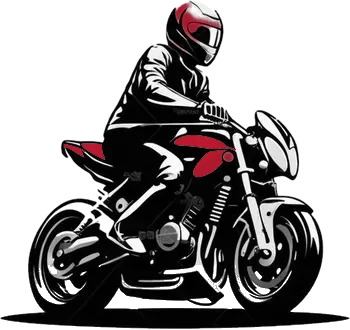
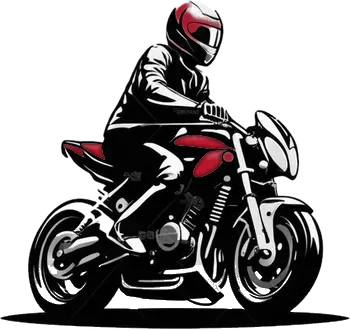
Bike panels shaded in wine like the helmet: deep edges, lighter centre, soft top sheen
Claude-Session: https://claude.ai/code/session_011svZSxEu7wpuhhs3qeC1tv

Changed region(s): [[0.4857, 0.3939, 0.6571, 0.5455], [0.1714, 0.4242, 0.3143, 0.4848]]

diff --git a/sw.js b/sw.js
@@ -1,5 +1,5 @@
 // Waylink — offline shell. Caches the app's own files; fonts are cached as they load.
-const CACHE = 'waylink-v143';
+const CACHE = 'waylink-v144';
 const SHELL = ['./', 'index.html', 'styles.css', 'js/app.js', 'js/views.js', 'js/store.js', 'js/link.js', 'js/protocol.js', 'js/sound.js', 'js/icons-huge.js', 'img/onb/scene-light.webp', 'img/onb/scene-dark.webp', 'img/onb/scene-night.webp', 'img/grain.png', 'img/onb/rider-mono.webp', 'img/onb/rider-street.webp', 'img/onb/bt-disc.webp', 'manifest.webmanifest', 'icon.svg', 'img/logos/wl-loop-rust.svg', 'img/logos/wl-turns-rust.svg', 'img/logos/png/wl-loop-rust-180.png'];
 // Cache each file on its own, so one missing file can't block an update.
 self.addEventListener('install', (e) => { e.waitUntil(caches.open(CACHE).then((c) => Promise.all(SHELL.map((u) => c.add(new Request(u, { cache: 'reload' })).catch(() => {})))).then(() => self.skipWaiting())); });

diff --git a/tools/bike_wine.py b/tools/bike_wine.py
@@ -19,9 +19,23 @@ white = (v > .62) & (s < .25) & (al[..., 0] > .5)
 lab, _ = ndimage.label(white)
 PANELS = [(200, 141), (208, 163), (74, 148), (94, 149)]  # a point inside each panel, image pixels
 pick = np.isin(lab, [lab[y, x] for x, y in PANELS if lab[y, x]])
-pick = ndimage.binary_dilation(pick, iterations=2)  # take in the soft anti-aliased rim
-w = (pick * np.clip((v - .28) / .34, 0, 1))[..., None]
-panel = np.clip(WINE * (.62 + .5 * v[..., None]), 0, 1)
+# soft mask: grow a touch, then feather, so the wine melts into the black outlines like the helmet
+pick = ndimage.gaussian_filter(ndimage.binary_dilation(pick, iterations=1).astype(np.float32), 1.1)
+w = (np.clip(pick * 1.4, 0, 1) * np.clip((v - .22) / .4, 0, 1))[..., None]
+# shade each panel like the helmet: deep wine at its edges, lighter inside, a pale sheen along its top
+core = np.isin(lab, [lab[y, x] for x, y in PANELS if lab[y, x]])
+depth = np.clip(ndimage.distance_transform_edt(core) / 4.5, 0, 1)
+rel = np.zeros_like(v)
+for x, y in PANELS:
+    k = lab[y, x]
+    if not k: continue
+    ys = np.where(lab == k)[0]; m = lab == k
+    rel[m] = (np.where(m)[0] - ys.min()) / max(1, ys.max() - ys.min())
+rel = ndimage.gaussian_filter(rel, 1.2)
+tint = np.clip(WINE * (.62 + .5 * depth)[..., None], 0, 1)
+sheen = (np.clip(1 - rel * 2.6, 0, 1) * depth * .45)[..., None]
+panel = tint * (1 - sheen) + np.array([.98, .9, .9]) * sheen
+panel = panel * (.75 + .25 * v[..., None])
 out = out * (1 - w) + panel * w
 Image.fromarray((np.dstack([out, al]) * 255).round().astype(np.uint8), 'RGBA').save('img/onb/rider-street.webp', quality=86, method=6)
 print('ok')
